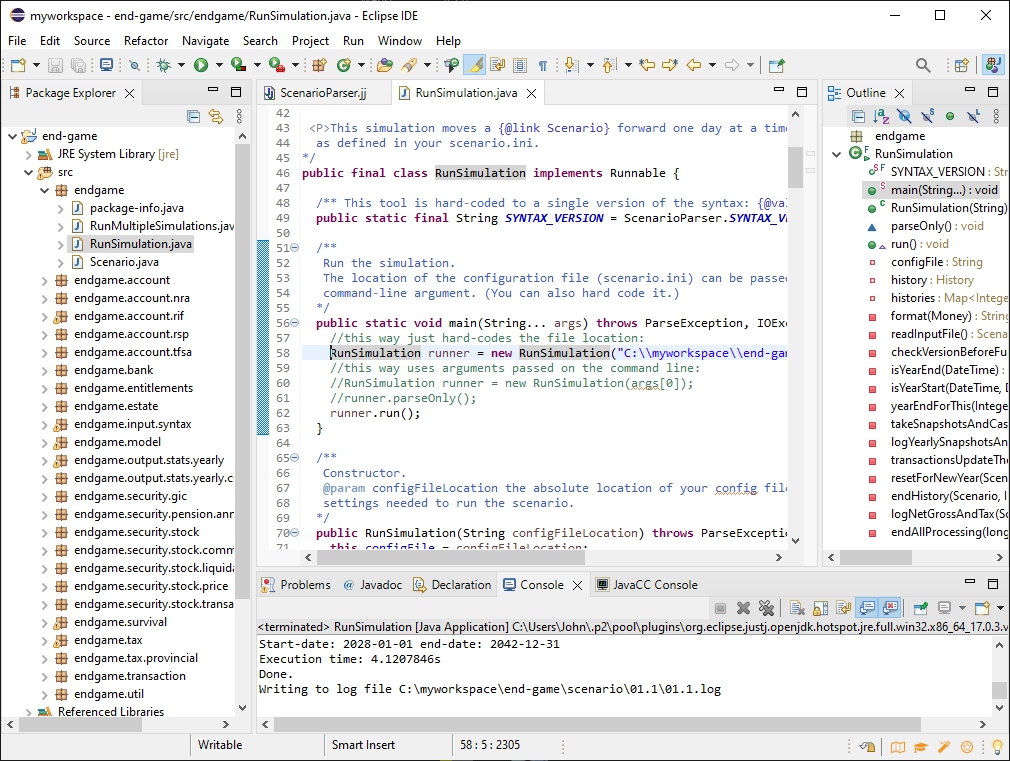
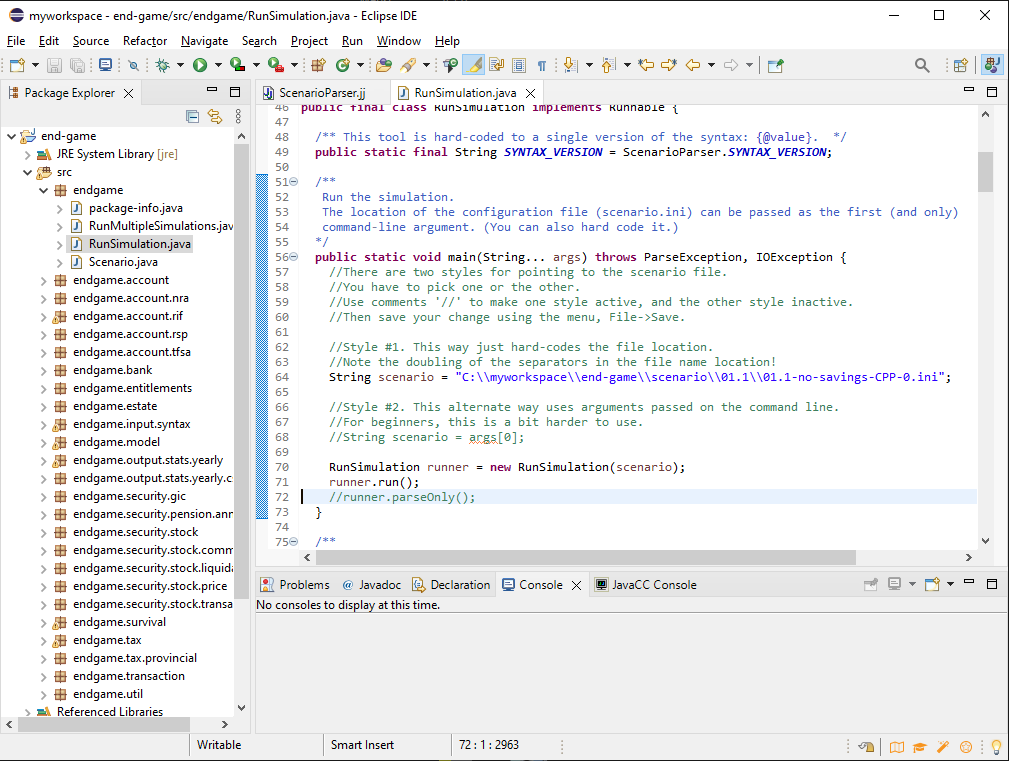
Run scenarios - docs

diff --git a/docs/gettingstarted/index.html b/docs/gettingstarted/index.html
@@ -18,6 +18,8 @@
 <h2>Getting Started</h2>
 This is a guide for running the code in the Eclipse tool.
 
+
+
 <h3>Step 1 - Folders and Source Code</h3>
 <br>First, create a <b>workspace</b> folder on your machine.
 
@@ -58,6 +60,8 @@ C:\myworkspace\            [the workspace folder]
  <li>your folders should now follow the pattern shown above!
 </ul>
 
+
+
 <h3>Step 2 - Install and Run Eclipse</h3>
 Install and run Eclipse, following these steps: 
 <P><a href='https://www.eclipse.org/downloads/'>Download</a> the Eclipse installer.
@@ -78,6 +82,7 @@ Install and run Eclipse, following these steps:
 <P><img src='install-05.png'>
 
 
+
 <h3>Step 3 - Import the end-game Project into Eclipse</h3>
 Now that you have Eclipse running, it's time to point it to the <em>end-game</em> project and its source code.
 
@@ -93,43 +98,50 @@ Now that you have Eclipse running, it's time to point it to the <em>end-game</em
 <P><img src='install-08.png'> 
 
 
+
 <h3>Step 4 - Run an Example Scenario</h3>
 On the left, open the <em>src</em> folder, and then the <em>endgame</em> folder.
-Double click on the <em>RunSimulation</em> file (this is called a class in Java): 
+Double click on the <em>RunSimulation</em> file (this is called a <em>class</em> in Java).
+This is the main class that launches the tool. The task is to point it to a given scenario file.
+To get started, we'll point it to an existing scenario file that comes with the source code. 
 <P><img src='install-09.png'>
  
-<P>Before you run it, you need to ensure that RunSimulation is pointed to the desired scenario file.
-Look for this line:
-<pre>RunSimulation runner = new RunSimulation("C:\\myworkspace\\end-game\\scenario\\01.1\\01.1-no-savings-CPP-0.ini");</pre>
+<P>There are two ways of pointing to the scenario file.
+The easiest way is <em>Style #1</em>. 
+If your workspace is different from <em>C:\workspace\</em>, then you will need to change one line to point to your actual 
+workspace, and then save the change using the menu, File -> Save.
 
-<P>In Java code, comments are preceded by // characters. When you place // at the start of a line of code, that means
-you, in effect, turn it off and prevent it from executing.
+<P>Finally, to run the scenario and generate its output, in the menu select <em>Run -> Run As... -> Java application</em>.
+That will generate logging output to something called the Console window.
+It will also generate new .csv files that summarize the results.
+The log file and .csv files are saved to the same directory as the scenario itself.
 
-<P>In the menu, select <em>Run -> Run As... -> Java application</em>.
+<P>The <em>RunMultipleSimulations</em> class works in a similar, but it is passed a folder that contains multiple scenarios files. 
+ 
+
+
 
 <h3>Step 5 - Create your own Scenario</h3>
 Now you are ready to experiment with your own scenarios.
-<ul>
- <li>create your own scenario file. You can place the scenario anywhere you want. 
- Many will find it convenient to follow the existing pattern under the <em>scenario</em> folder in the project.
- You'll likely want to explore multiple scenarios, so you might create multiple folders under <em>scenario</em>, one folder 
- for each new scenario. 
- <li>set the project-root location in the scenario file
- <li>execute the <em>RunSimulation</em> class. 
- You need to tell it the file location of your scenario file.
- The simplest way is to hard-code it in the <em>RunSimulation</em> class itself. 
-</ul>
+You can place the scenario file anywhere you want. 
+But most will find it convenient to follow the existing structure established with the example scenarios, all located under the <em>scenario</em> folder in the project.
+The idea is simple: you just create a new folder for each scenario.
+
+<P>Of course, in order to run your new scenario, you will need to point the <em>RunSimulation</em> class to the scenario file, using 
+the method described above.
+
 
 
 <h3>Step 6 (Optional) - Install the JavaCC plugin</h3>
-You can skip this if you wish. The JavaCC tool lets you change the syntax of the scenario file.
+You can skip this if you wish. 
+The <em>JavaCC</em> tool lets you change the syntax of the scenario file.
 You won't likely need to do that. 
 
-<P>To install the JavaCC plugin into Eclipse
+<P>To install the <em>JavaCC</em> plugin into Eclipse:
 <ul>
- <li>from the menu, select Help -> Eclipse Marketplace
- <li>in the Find box, enter "javacc" and hit Enter
- <li>click the <em>Install</em> button for the JavaCC plugin
+ <li>from the menu, select <em>Help -> Eclipse Marketplace</em>
+ <li>in the Find box, enter <em>javacc</em> and hit Enter
+ <li>click the <em>Install</em> button for the <em>JavaCC</em> plugin
 </ul>
 
 

diff --git a/src/endgame/RunSimulation.java b/src/endgame/RunSimulation.java
@@ -51,22 +51,25 @@ public final class RunSimulation implements Runnable {
   /** 
    Run the simulation.
    The location of the configuration file (scenario.ini) can be passed as the first (and only) 
-   command-line argument. (You can also hard code it.)
+   command-line argument. (You can also hard code it. See below.)
   */
   public static void main(String... args) throws ParseException, IOException {
-    //There are two ways to point to the scenario file.
+    //There are two styles for pointing to the scenario file.
     //You have to pick one or the other.
-    //Use comments '//' to control which one is active, and which one is not.
+    //Use comments '//' to make one style active, and the other style inactive.
     //Then save your change using the menu, File->Save.
     
     //Style #1. This way just hard-codes the file location.
     //Note the doubling of the separators in the file name location!
-    RunSimulation runner = new RunSimulation("C:\\myworkspace\\end-game\\scenario\\01.1\\01.1-no-savings-CPP-0.ini");
+    String scenario = "C:\\myworkspace\\end-game\\scenario\\01.1\\01.1-no-savings-CPP-0.ini";
     
-    //Style #2. This alternate way uses arguments passed on the command line:
-    //RunSimulation runner = new RunSimulation(args[0]);
-    //runner.parseOnly();
+    //Style #2. This alternate way uses arguments passed on the command line.
+    //For beginners, this is a bit harder to use.
+    //String scenario = args[0];
+    
+    RunSimulation runner = new RunSimulation(scenario);
     runner.run();
+    //runner.parseOnly();
   }
   
   /**

diff --git a/src/endgame/RunMultipleSimulations.java b/src/endgame/RunMultipleSimulations.java
@@ -26,11 +26,11 @@ public final class RunMultipleSimulations implements Runnable {
   */
   public static void main(String... args) throws ParseException, IOException {
     /*
-    If you prefer, you can also run this by simply hard-coding the location of the scenario file:
-    RunMultipleSimulations runMultipleSims = new RunMultipleSimulations(C:\\blah\\");
+    If you prefer, you can also run this by simply hard-coding the folder location
+    String folder = "C:\\myworkspace\\end-game\\scenario";
      */
-    String root = args[0];
-    RunMultipleSimulations runMultipleSims = new RunMultipleSimulations(root);
+    String folder = args[0];
+    RunMultipleSimulations runMultipleSims = new RunMultipleSimulations(folder);
     runMultipleSims.run();
   }
   
